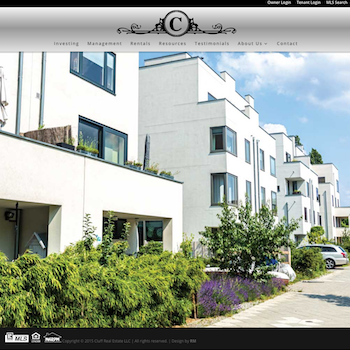
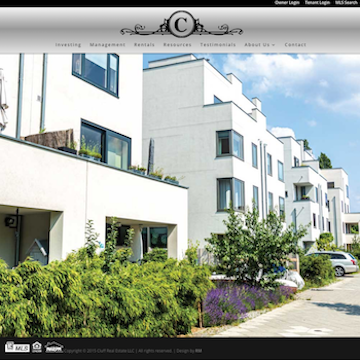
project cards and about page

diff --git a/public/style.css b/public/style.css
@@ -69,9 +69,6 @@ h1 {
 }
 
 
-.photo img {
-  width: 150%;
-}
 
 .title h1{
   font-size: 200px;
@@ -80,17 +77,89 @@ h1 {
 
 
 /* ABOUT */
-
-`{
-  position:fixed;
-  bottom:0px;
-  left:50%;
+.about {
+  background-color: rgba(236, 200, 175, 0.9);
+  float: right;
+  margin: 100px 75px 75px 75px;
 }
 
+.about-container {
+  width: 100%;
+  padding: 0;
+}
+
+.about-subtitle {
+  margin-bottom: 20px;
+}
+
+.about-title {
+  margin: 20px 0;
+}
+
+.bio {
+  text-align: center;
+  margin: 25px;
+}
+
+.photo {
+  float: left;
+  position:fixed;
+  bottom:0px;
+/*  overflow: hidden;*/
+}
+
+
 /* PROJECTS */
-.card-img img {
-  height: 250px !important;
-  width: 250px !important;
+
+.card {
+  width: 360px;
+  margin-bottom: 30px;
+  background-color: rgba(236, 200, 175, 0.95);
+}
+
+.card-block {
+  padding: 20px 20px;
+  border-bottom:  #495867 solid 2px;
+  min-height: 172px;
+}
+
+/*.card-text {
+  margin-left: 20px;
+}
+
+.card-title {
+  margin-top: 20px;
+  margin-left: 20px;
+}*/
+
+.project-btn {
+  margin: 0px 0px 10px 0px;
+}
+.projects-page {
+  /*width: 1200px;*/
+  background-image: url(./assets/background.png);
+  background-repeat: no-repeat;
+  background-position: center center;
+  background-attachment: fixed;
+  background-size:  cover;
+  margin-top: 0px;
+  height: 1500px;
+  overflow: auto;
+}
+.projects-header{
+  margin: 100px auto;
+  background-color: rgba(236, 200, 175, 0.9);
+  height: 200px;
+  padding-top: 30px;
+  width: 62%;
+}
+
+.projects-title {
+  margin: 20px 0;
+}
+
+.projects-subtitle {
+  margin: 10px 0;
 }
 
 /* RESUME */
@@ -118,19 +187,22 @@ h1 {
 }
 
 
+
 /*RESPONSIVE STYLING */
 @media only screen 
   and (min-device-width: 320px) 
   and (max-device-width: 480px)
   and (-webkit-min-device-pixel-ratio: 2) {
-  /*index*/
-  .title h1 {
+  .small-gone {
     display: none;
   }
-
+  /*index*/
   .index-header {
     width: 85%;
     margin-top: 20px;
+  }
+  .title h1 {
+    display: none;
   }
 
   /*contact*/
@@ -141,6 +213,43 @@ h1 {
     margin-top: 20px;
     height: 100%;
   }
+
+  /*projects*/
+  .col-sm-4 {
+    padding-left: 2%;
+  }
+
+  /*about*/
+  .about {
+    width: 350px;
+    padding: 0px;
+    margin: 28px;
+    float: none;
+  }
+
+  .about-container {
+    background-image: url(./assets/background.png);
+    background-repeat: no-repeat;
+    background-position: center center;
+    background-attachment: fixed;
+    background-size:  cover;
+    margin-top: 0px;
+    height: 1500px;
+    overflow: auto; 
+  }
+
+  .about-row {
+    width: 375px;
+  }
+
+  .about-title {
+    padding-top: 25px;
+  }
+
+  .bio {
+    padding: 5px 5px 25px 5px;
+  }
+
 }
 
 /*tablet*/
@@ -148,6 +257,9 @@ h1 {
   and (min-device-width: 768px) 
   and (max-device-width: 1024px) 
   and (-webkit-min-device-pixel-ratio: 1) {
+  .small-gone {
+    display: none;
+  }
   /*Index*/
   .index-header {
     width: 85%;
@@ -161,6 +273,19 @@ h1 {
   .form-horizontal {
     margin-top: 25px;
     height: 100%;
+  }
+
+  /*about*/
+
+  .about-container {
+    background-image: url(./assets/background.png);
+    background-repeat: no-repeat;
+    background-position: center center;
+    background-attachment: fixed;
+    background-size:  cover;
+    margin-top: 0px;
+    height: 1500px;
+    overflow: auto; 
   }
 
 }
